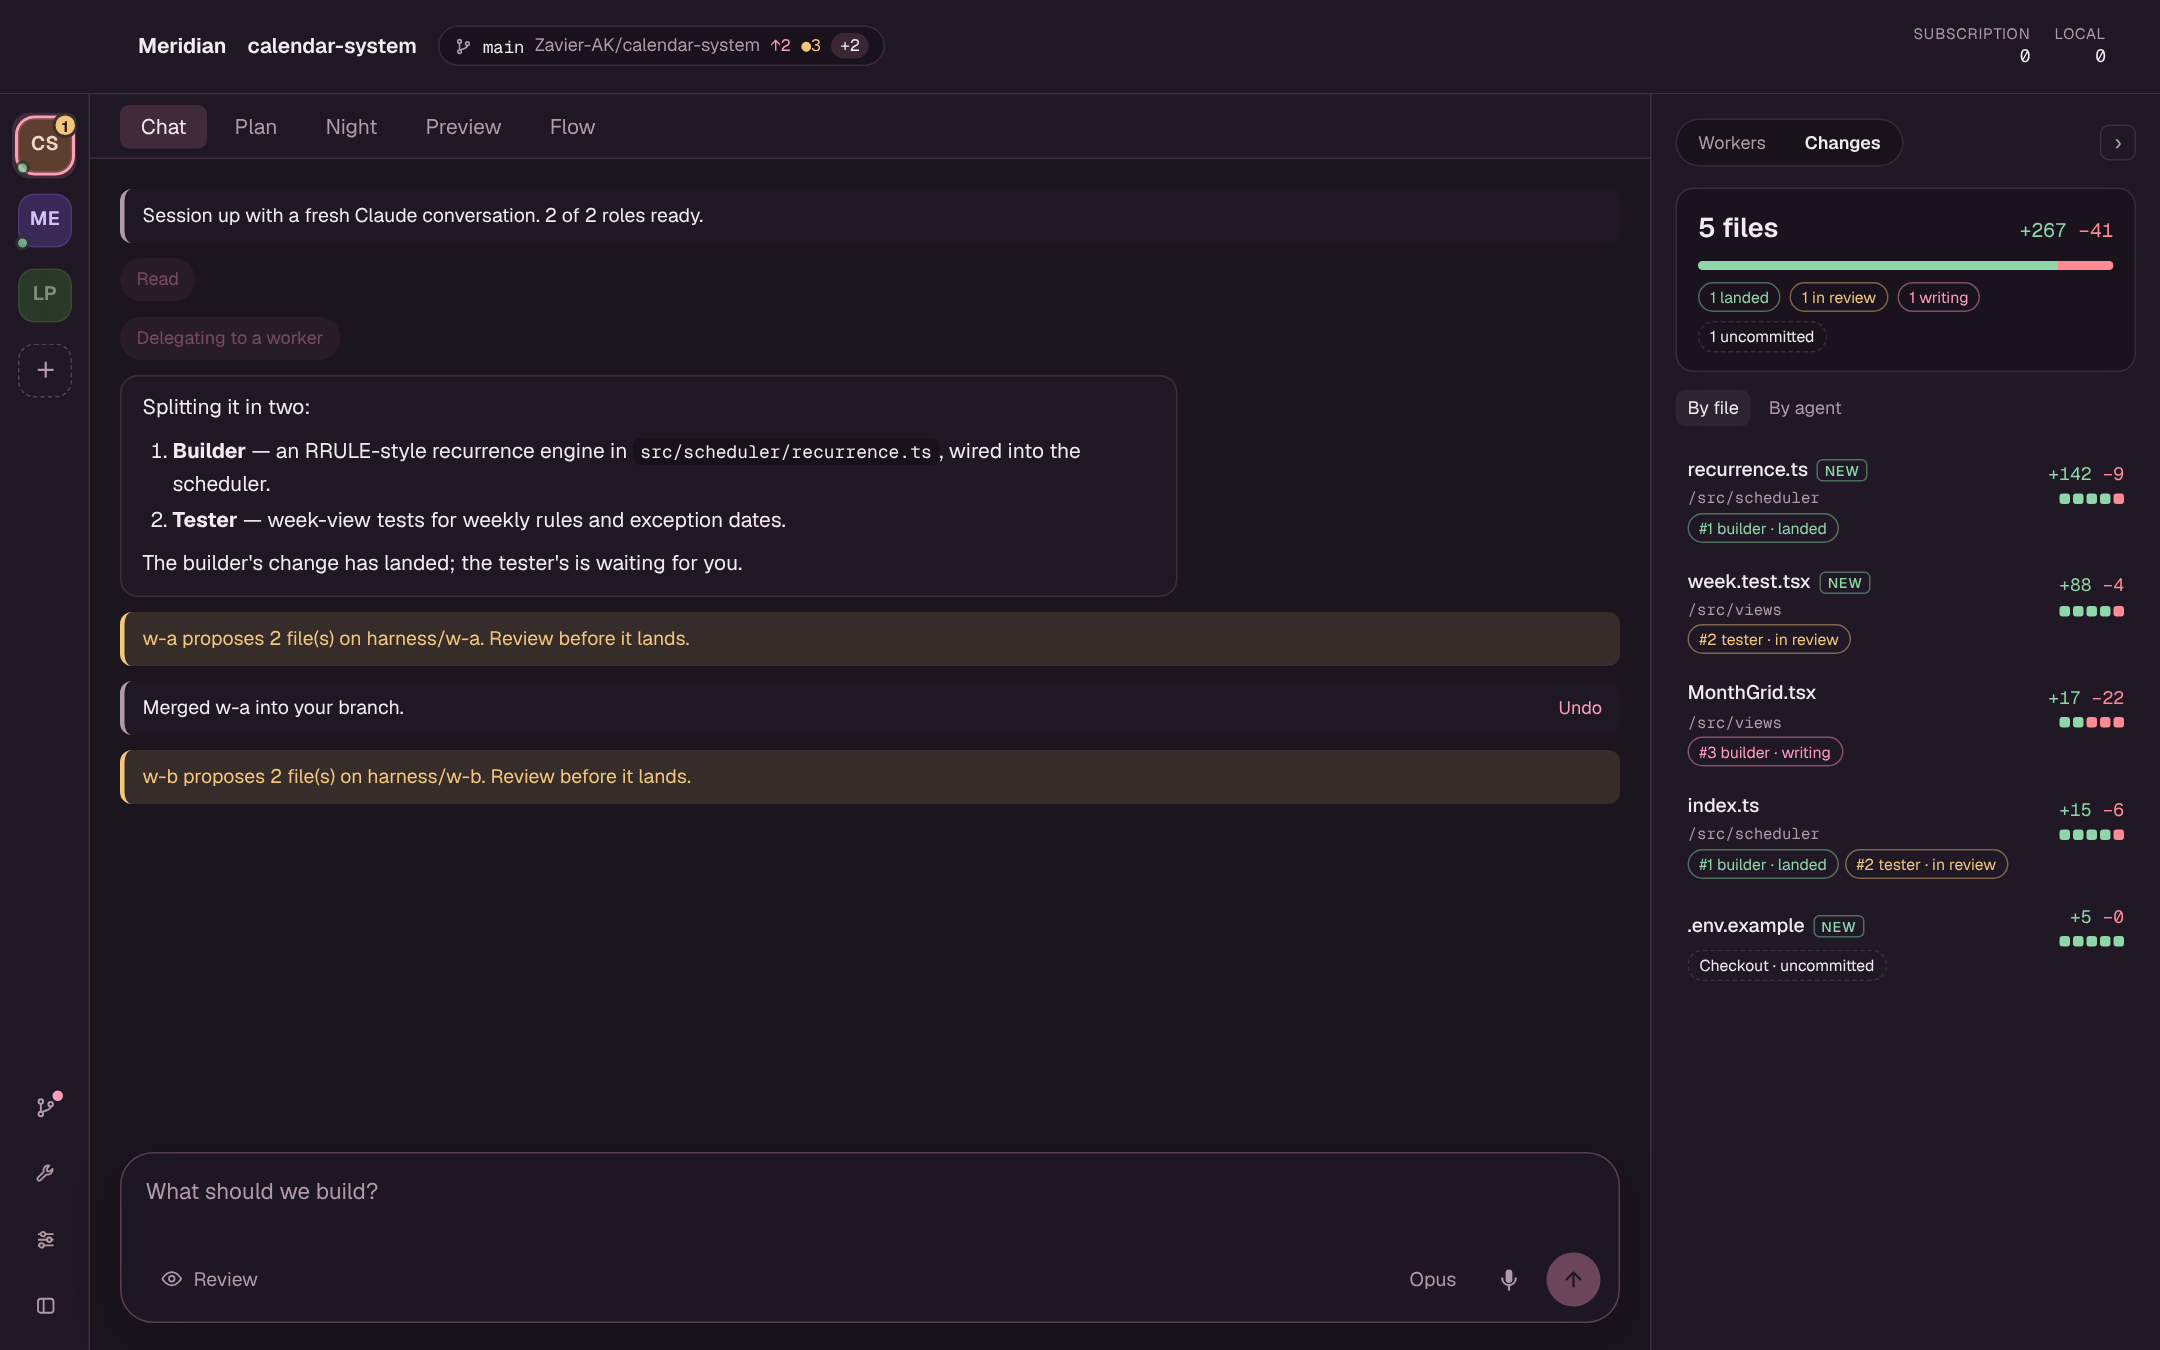
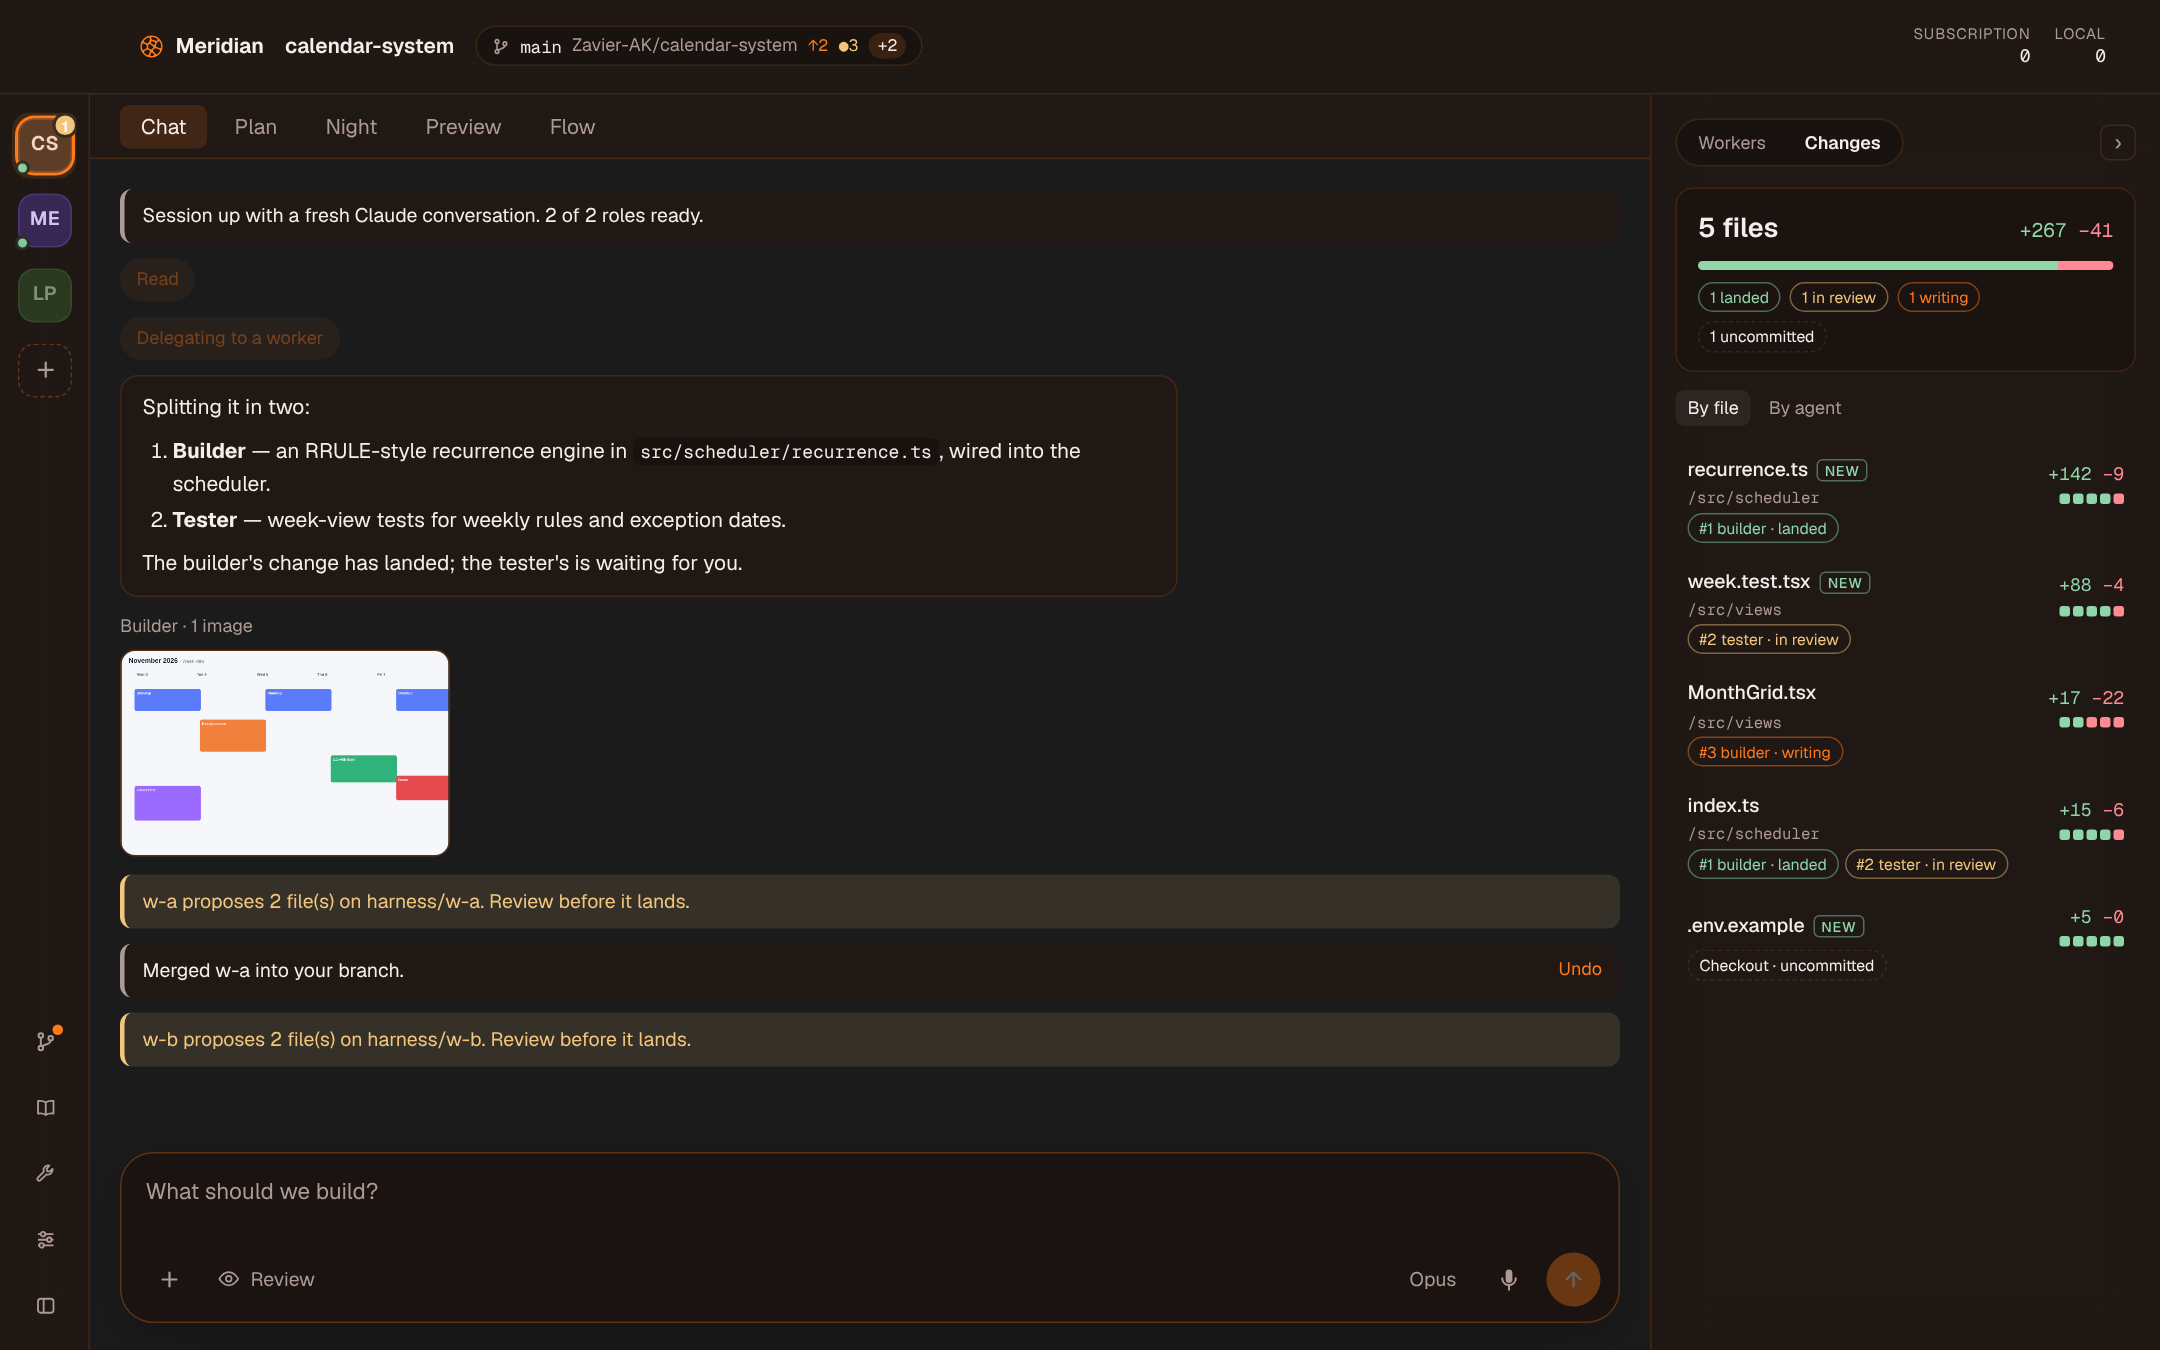
A plus in the chat bar; README screenshots in the current look
The chat bar's "Image" pill is now a round + button (still "Add images"
for screen readers, with paste and drop as before). The README's
screenshots are retaken with the Cells mark and the Ember theme, and the
chat shot now shows a worker's screenshot in the conversation.

Claude-Session: https://claude.ai/code/session_01UizTfERu5yCuhw5uFn1WTA

diff --git a/app/src/HeadChat.tsx b/app/src/HeadChat.tsx
@@ -357,17 +357,14 @@ export default function HeadChat({
         <div className="composer-bar">
           <div className="composer-tools">
             <button
-              className="composer-pill"
+              className="composer-pill composer-attach"
               onClick={() => fileRef.current?.click()}
-              title="Attach screenshots or images (or paste, or drop them here)"
-              aria-label="Attach images"
+              title="Add images (or paste or drop them here)"
+              aria-label="Add images"
             >
-              <svg width="14" height="14" viewBox="0 0 24 24" fill="none" stroke="currentColor" strokeWidth="2" strokeLinecap="round" strokeLinejoin="round" aria-hidden>
-                <rect x="3" y="4" width="18" height="16" rx="3" />
-                <circle cx="9" cy="10" r="1.6" />
-                <path d="M21 16l-5-5-9 9" />
+              <svg width="16" height="16" viewBox="0 0 24 24" fill="none" stroke="currentColor" strokeWidth="2.2" strokeLinecap="round" aria-hidden>
+                <path d="M12 5v14M5 12h14" />
               </svg>
-              Image
             </button>
             <input
               ref={fileRef}

diff --git a/app/src/styles.css b/app/src/styles.css
@@ -1681,6 +1681,8 @@ button.pill.link-pill:hover:not(:disabled) { background: var(--accent-soft); }
   padding: 6px 10px; border-radius: 999px; font-size: 13px; white-space: nowrap;
 }
 .composer-tools .composer-pill:hover:not(:disabled), .composer-tools .composer-pill.open { color: var(--text); background: rgba(255, 255, 255, 0.07); }
+/* Just a plus: round, and the same height as the pills beside it. */
+.composer-tools .composer-pill.composer-attach { width: 32px; height: 32px; padding: 0; justify-content: center; }
 .plugin-commands-menu {
   position: absolute; bottom: calc(100% + 10px); left: 0; z-index: 30;
   list-style: none; margin: 0; padding: 6px; min-width: 260px; max-height: 320px; overflow-y: auto;

diff --git a/docs/GUIDE.md b/docs/GUIDE.md
@@ -77,7 +77,7 @@ by a click in the app, so no amount of model output can land code on its own.
 
 ### Showing it a screenshot
 
-Paste an image into the chat box (⌘V), drop one on it, or click **Image** to pick files.
+Paste an image into the chat box (⌘V), drop one on it, or click **+** to pick files.
 Up to six go with a message, shown as thumbnails you can remove before sending.
 
 - **The head agent sees them itself**, in the message.
